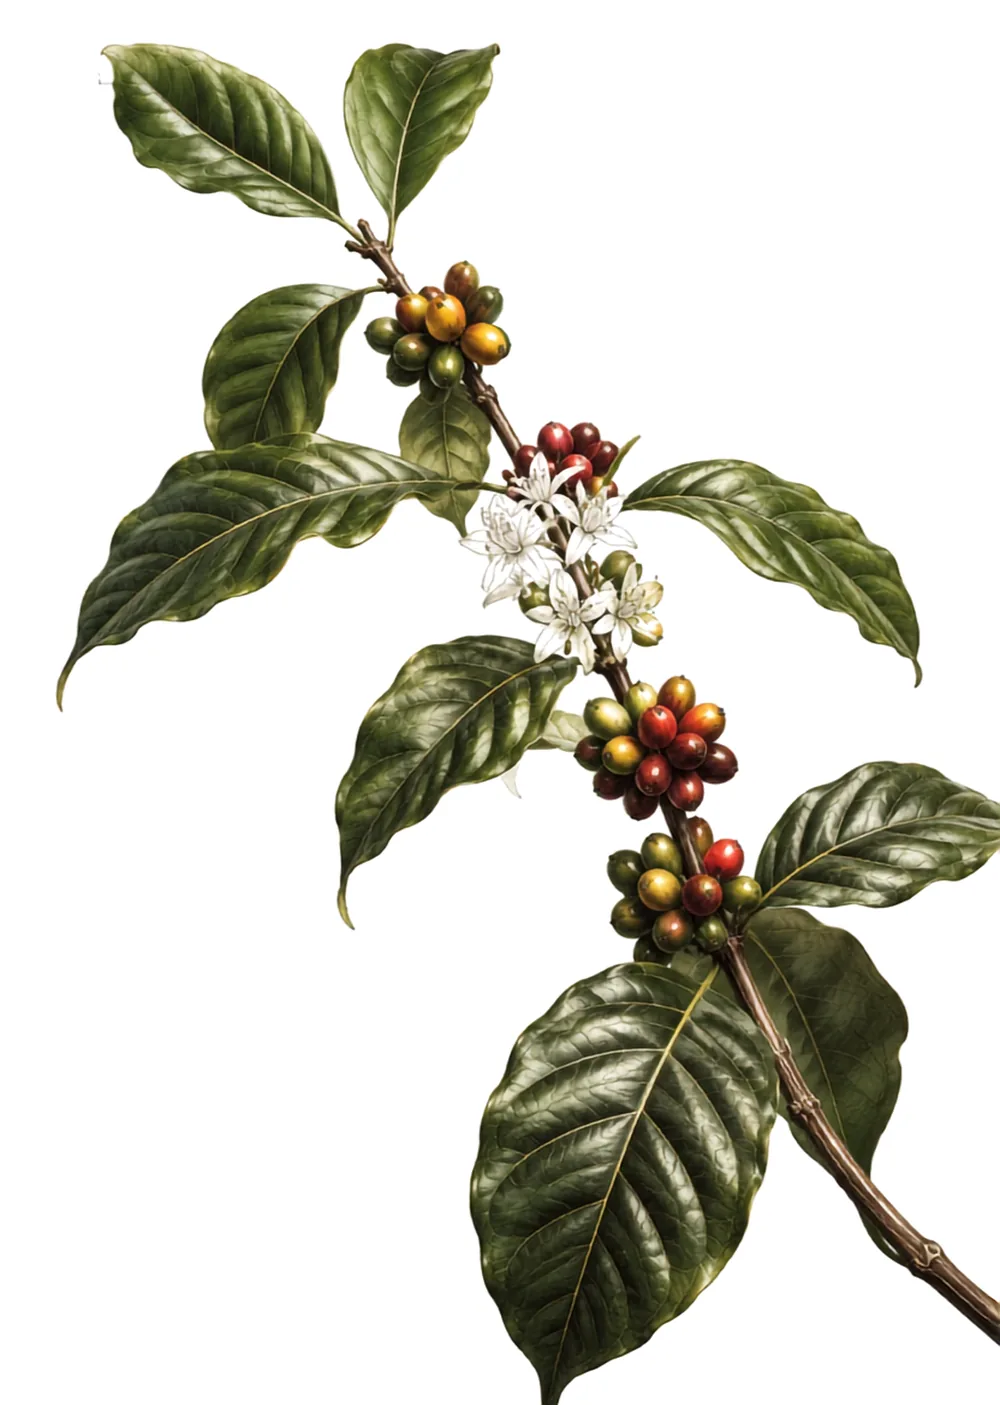
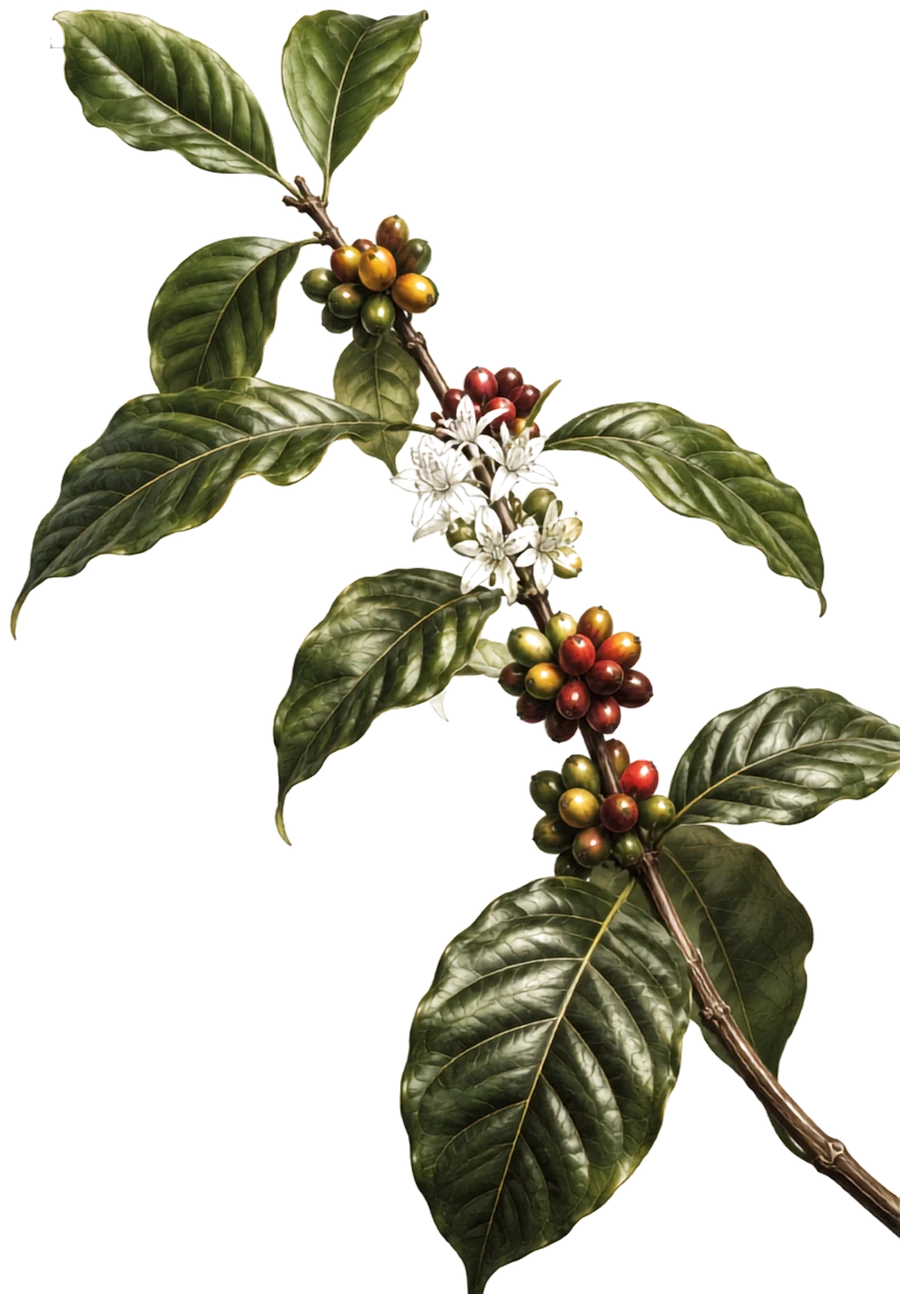
Add files via upload

Changed region(s): [[0.0, 0.0, 1.0, 1.0], [0.9022, 0.711, 0.9333, 0.7419], [0.8711, 0.6801, 0.9022, 0.711]]

diff --git a/assets/site.css b/assets/site.css
@@ -72,13 +72,19 @@ html:not(.has-smooth) #scrollArea{position:static;overflow:visible}
 #spacer{visibility:hidden}
 html:not(.has-smooth) #spacer{display:none}
 
-/* ---------- custom cursor (pointer:fine only) ---------- */
-.cur{position:fixed;top:0;left:0;width:9px;height:9px;border-radius:50%;background:var(--red);
-  pointer-events:none;z-index:200;transform:translate(-50%,-50%);will-change:transform}
-.cur-ring{position:fixed;top:0;left:0;width:34px;height:34px;border-radius:50%;border:1px solid rgba(255,255,255,.4);
-  pointer-events:none;z-index:200;transform:translate(-50%,-50%);transition:width .25s,height .25s,border-color .25s;will-change:transform}
-.cur-ring.big{width:64px;height:64px;border-color:var(--red)}
-html.has-cursor,html.has-cursor *{cursor:none!important}
+/* ---------- ambient background drift — barely visible, always on ----------
+   Not a graphic, just enough that the black canvas doesn't feel static.
+   Fixed behind everything, non-interactive. */
+body::before{
+  content:'';position:fixed;inset:-10%;z-index:0;pointer-events:none;
+  background:radial-gradient(ellipse 60% 40% at 30% 20%, rgba(250,40,43,.05), transparent 60%),
+             radial-gradient(ellipse 50% 40% at 80% 70%, rgba(255,229,34,.03), transparent 60%);
+  animation:drift 80s ease-in-out infinite alternate;
+}
+@keyframes drift{
+  0%{transform:translate(0,0) scale(1)}
+  100%{transform:translate(-3%,2%) scale(1.06)}
+}
 
 section{position:relative;z-index:2}
 .pad{padding-top:var(--gap);padding-bottom:var(--gap)}
@@ -109,18 +115,22 @@ section{position:relative;z-index:2}
 .hero h1 em{font-style:normal;display:block}
 .hero-copy>p{margin-top:clamp(22px,3vw,38px);max-width:33ch;color:var(--muted)}
 .hero .cta{margin-top:clamp(24px,3vw,38px)}
-.hero-media{position:relative;z-index:1;overflow:hidden;border-radius:2px;
-  margin-top:clamp(32px,6vw,56px);aspect-ratio:4/3}
-@media(min-width:620px){.hero-media{aspect-ratio:16/9}}
-@media(min-width:1100px){.hero-media{aspect-ratio:21/8}}
-.hero-media img{width:100%;height:100%;object-fit:cover;object-position:56% 40%;filter:grayscale(.15) contrast(1.04)}
+.hero-media{position:relative;z-index:1;margin-top:clamp(32px,6vw,56px);text-align:center}
+.hero-media img{max-width:min(100%,560px);width:100%;height:auto;margin:0 auto}
 
 /* ---------- page header (about / wholesale / contact) ---------- */
 .pagehead{padding-top:clamp(60px,9vw,120px);padding-bottom:clamp(40px,6vw,70px)}
 .pagehead h1{font-size:clamp(2.4rem,7vw,6.4rem);max-width:16ch}
 .pagehead p{margin-top:20px;color:var(--muted);max-width:48ch;font-size:clamp(16px,1.4vw,19px)}
 
-/* ---------- statement ---------- */
+/* ---------- scene slot — image/video anchor for sections that
+   currently have none (Statement, Recognition, Closing). Same
+   labelled-placeholder language as the rest of the site. ---------- */
+.scene-slot{background:var(--slot);border:1px solid var(--rule);display:flex;align-items:center;
+  justify-content:center;text-align:center;color:var(--faint);overflow:hidden;margin-top:clamp(32px,5vw,56px)}
+.scene-slot span{font-family:var(--text);font-size:10.5px;letter-spacing:.13em;text-transform:uppercase;font-weight:500;line-height:1.9}
+.scene-slot.wide{aspect-ratio:21/9}
+.scene-slot.tall{aspect-ratio:4/5;max-width:420px;margin-left:auto;margin-right:auto}
 .statement h2{font-size:clamp(1.9rem,5.4vw,4.9rem);max-width:17ch}
 
 /* ---------- farm to cup ---------- */

diff --git a/assets/site.js b/assets/site.js
@@ -77,29 +77,10 @@
   })();
 
   /* -----------------------------------------------------------
-     4. Custom cursor + magnetic buttons — desktop / trackpad only.
-        Touch devices keep the system cursor; nothing below runs.
+     4. Magnetic buttons — desktop / trackpad only. Touch devices
+        get the plain button; nothing below runs there.
      ----------------------------------------------------------- */
   if(FINE && !REDUCE){
-    document.documentElement.classList.add('has-cursor');
-    var dot = document.createElement('div'); dot.className = 'cur';
-    var ring = document.createElement('div'); ring.className = 'cur-ring';
-    document.body.appendChild(dot); document.body.appendChild(ring);
-
-    var mx=innerWidth/2, my=innerHeight/2, rx=mx, ry=my;
-    window.addEventListener('mousemove', function(e){ mx=e.clientX; my=e.clientY; });
-    (function loop(){
-      requestAnimationFrame(loop);
-      rx += (mx-rx)*.18; ry += (my-ry)*.18;
-      dot.style.transform  = 'translate(' + mx + 'px,' + my + 'px) translate(-50%,-50%)';
-      ring.style.transform = 'translate(' + rx + 'px,' + ry + 'px) translate(-50%,-50%)';
-    })();
-
-    document.querySelectorAll('a, button, .magnetic').forEach(function(el){
-      el.addEventListener('mouseenter', function(){ ring.classList.add('big'); });
-      el.addEventListener('mouseleave', function(){ ring.classList.remove('big'); });
-    });
-
     /* magnetic pull on buttons */
     document.querySelectorAll('.magnetic').forEach(function(el){
       var tx=0, ty=0, cx=0, cy=0;

diff --git a/index.html b/index.html
@@ -53,6 +53,7 @@
 
 <section class="statement pad wrap">
   <h2 class="rv">A roastery. Not a café, not a chain.</h2>
+  <div class="scene-slot wide rv d1"><span>Image or video slot<br>Roasting in progress</span></div>
 </section>
 
 <section class="pad wrap" style="padding-top:0">
@@ -105,10 +106,12 @@
     <p>Certified to grade and score green coffee to international standard.</p>
   </div>
   <p class="mono rv d2" style="margin-top:28px;color:var(--faint)">A checkpoint, not a destination.</p>
+  <div class="scene-slot tall rv d2"><span>Image slot<br>Championship day</span></div>
 </section>
 
 <section class="closing wrap">
-  <h2 class="rv">Coffee for humans, who still believe in humans.</h2>
+  <div class="scene-slot wide rv" style="margin-bottom:clamp(32px,5vw,56px)"><span>Image or video slot<br>Hands, bag, or the roastery itself</span></div>
+  <h2 class="rv d1">Coffee for humans, who still believe in humans.</h2>
 </section>
 
 </main>

diff --git a/contact.html b/contact.html
@@ -36,6 +36,15 @@
   <p class="rv-hero d1">Fastest way to reach us is WhatsApp — orders, questions, wholesale, all of it.</p>
 </header>
 
+<div class="marquee mono">
+  <div class="track">
+    <span>Roasted to order <b>&bull;</b> Q Grader licensed <b>&bull;</b> Single origin <b>&bull;</b></span>
+    <span>Roasted to order <b>&bull;</b> Q Grader licensed <b>&bull;</b> Single origin <b>&bull;</b></span>
+    <span>Roasted to order <b>&bull;</b> Q Grader licensed <b>&bull;</b> Single origin <b>&bull;</b></span>
+    <span>Roasted to order <b>&bull;</b> Q Grader licensed <b>&bull;</b> Single origin <b>&bull;</b></span>
+  </div>
+</div>
+
 <section class="wrap" style="padding-bottom:var(--gap)">
   <a href="#" class="cta magnetic js-wa rv" style="font-size:13px;padding:19px 32px">Order on WhatsApp <i>&rarr;</i></a>
 

diff --git a/about.html b/about.html
@@ -36,6 +36,15 @@
   <p class="rv-hero d1">The story behind Urban Hippie, told the way it actually happened — one step at a time, starting long before there was a roaster.</p>
 </header>
 
+<div class="marquee mono">
+  <div class="track">
+    <span>Roasted to order <b>&bull;</b> Q Grader licensed <b>&bull;</b> Single origin <b>&bull;</b></span>
+    <span>Roasted to order <b>&bull;</b> Q Grader licensed <b>&bull;</b> Single origin <b>&bull;</b></span>
+    <span>Roasted to order <b>&bull;</b> Q Grader licensed <b>&bull;</b> Single origin <b>&bull;</b></span>
+    <span>Roasted to order <b>&bull;</b> Q Grader licensed <b>&bull;</b> Single origin <b>&bull;</b></span>
+  </div>
+</div>
+
 <section class="wrap" style="padding-bottom:var(--gap)">
   <div class="tagblock rv">
     <span class="lbl mono">Origin</span>

diff --git a/wholesale.html b/wholesale.html
@@ -36,6 +36,15 @@
   <p class="rv-hero d1">We supply roasted coffee to cafés and businesses, in 1kg and 5kg. Roasted to your order cycle, not pulled from a warehouse shelf.</p>
 </header>
 
+<div class="marquee mono">
+  <div class="track">
+    <span>Roasted to order <b>&bull;</b> Q Grader licensed <b>&bull;</b> Single origin <b>&bull;</b></span>
+    <span>Roasted to order <b>&bull;</b> Q Grader licensed <b>&bull;</b> Single origin <b>&bull;</b></span>
+    <span>Roasted to order <b>&bull;</b> Q Grader licensed <b>&bull;</b> Single origin <b>&bull;</b></span>
+    <span>Roasted to order <b>&bull;</b> Q Grader licensed <b>&bull;</b> Single origin <b>&bull;</b></span>
+  </div>
+</div>
+
 <section class="pad wrap" style="padding-top:0">
   <div class="offer">
     <ul class="rv">

diff --git a/README.md b/README.md
@@ -9,9 +9,9 @@ wholesale.html   Café / wholesale enquiries
 contact.html     Contact
 assets/
   site.css       All shared styling
-  site.js        Cursor, smooth scroll, WhatsApp links, page transitions
+  site.js        Smooth scroll, magnetic buttons, WhatsApp links, page transitions
   logo-horizontal.png
-  branch.webp    Hero image
+  branch.webp    Hero illustration, background removed
 ```
 
 ## Before it's live
